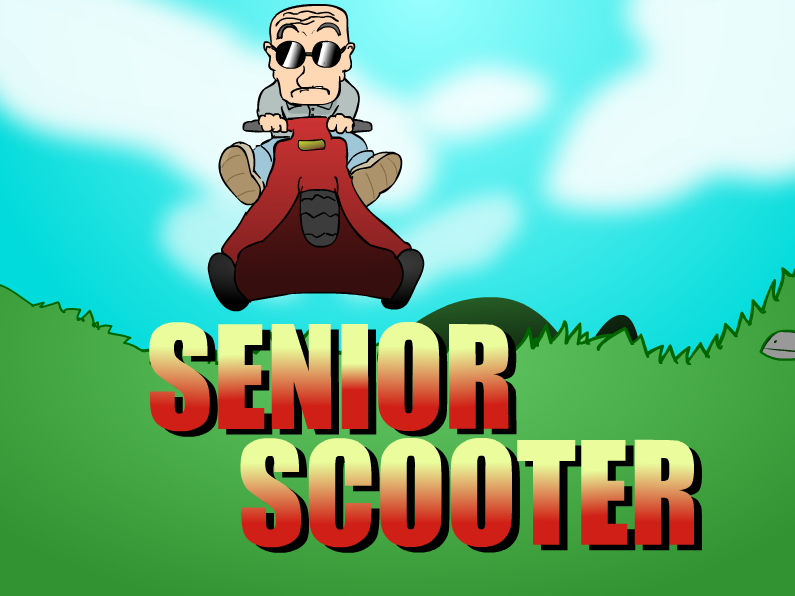
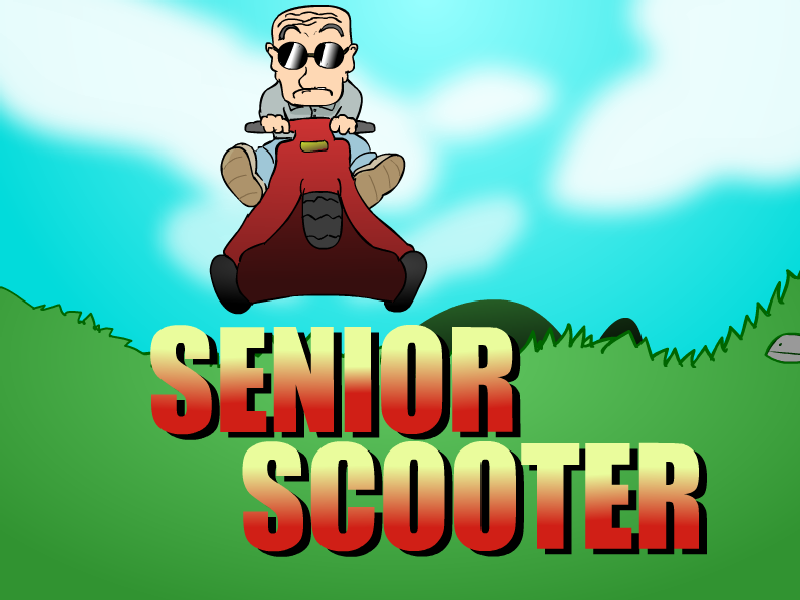
begin relative location code for titlesafe

diff --git a/SSORFwindows/SSORFwindows/Management/States/Mission.cs b/SSORFwindows/SSORFwindows/Management/States/Mission.cs
@@ -51,6 +51,8 @@ namespace SSORF.Management.States
         SSORF.Objects.Level level;
 
         SSORF.Objects.fpsCalculator fps;
+
+        private Rectangle bounds;
         #endregion
 
         //empty constructor for making missions without parameters
@@ -148,6 +150,8 @@ namespace SSORF.Management.States
             #endregion
 
             camera.update(scooter.Geometry.Location, scooter.Yaw);
+
+            bounds = rootGame.GraphicsDevice.Viewport.Bounds;
         }
 
 
@@ -297,8 +301,8 @@ namespace SSORF.Management.States
 
             //display camera and scooter coordinates for testing
 
-            spriteBatch.DrawString(smallFont, "FPS: " + fps.FPS, new Vector2(11, 51), Color.Black);
-            spriteBatch.DrawString(smallFont, "FPS: " + fps.FPS, new Vector2(10, 50), Color.Black);
+            spriteBatch.DrawString(smallFont, "FPS: " + fps.FPS, new Vector2(bounds.Left + 11, bounds.Top + 51), Color.Black);
+            spriteBatch.DrawString(smallFont, "FPS: " + fps.FPS, new Vector2(bounds.Left + 10, bounds.Top + 50), Color.Black);
             //spriteBatch.DrawString(smallFont, "Scooter coordinates: " + scooter.Geometry.Location.ToString(), new Vector2(10, 10), Color.Black);
             //spriteBatch.DrawString(smallFont, "Camera coordinates:  " + camera.Position.ToString(), new Vector2(10, 30), Color.Black);
             
@@ -314,40 +318,40 @@ namespace SSORF.Management.States
             switch (state)
             { 
                 case MissionState.Starting :
-                    spriteBatch.DrawString(smallFont, "Time Left: " + timeLimit.TotalSeconds.ToString(), new Vector2(200, 10), Color.Black);
-                    spriteBatch.DrawString(smallFont, "Get ready to race!!!", new Vector2(300, 550), Color.Black);
-                    spriteBatch.DrawString(largeFont, Math.Abs(scooter.Speed * 2.23f).ToString("0"), new Vector2(50, 400), Color.Red);
+                    spriteBatch.DrawString(smallFont, "Time Left: " + timeLimit.TotalSeconds.ToString(), new Vector2(bounds.Left + 200, bounds.Top + 10), Color.Black);
+                    spriteBatch.DrawString(smallFont, "Get ready to race!!!", new Vector2(bounds.Left + 300, bounds.Top + 550), Color.Black);
+                    spriteBatch.DrawString(largeFont, Math.Abs(scooter.Speed * 2.23f).ToString("0"), new Vector2(bounds.Left + 50, bounds.Top + 400), Color.Red);
                     if (countDown.Seconds > 0)
-                        spriteBatch.DrawString(largeFont, countDown.Seconds.ToString(), new Vector2(340, 100), Color.Black);
+                        spriteBatch.DrawString(largeFont, countDown.Seconds.ToString(), new Vector2(bounds.Left + 340, bounds.Top + 100), Color.Black);
                     else
-                        spriteBatch.DrawString(largeFont, "GO!", new Vector2(220, 100), Color.Black);
+                        spriteBatch.DrawString(largeFont, "GO!", new Vector2(bounds.Left + 220, bounds.Top + 100), Color.Black);
                 break;
 
                 case MissionState.Paused:
-                    spriteBatch.DrawString(smallFont, "Time Left: " + timeLimit.TotalSeconds.ToString(), new Vector2(200, 10), Color.Black);
-                    spriteBatch.DrawString(largeFont, "paused", new Vector2(80, 100), Color.Black);
-                    spriteBatch.DrawString(smallFont, "Press [" + endKey + "] to quit mission", new Vector2(280, 530), Color.Black);
-                    spriteBatch.DrawString(smallFont, "Press [" + returnKey + "] to return to mission", new Vector2(280, 550), Color.Black);
-                    spriteBatch.DrawString(largeFont, Math.Abs(scooter.Speed * 2.23f).ToString("0"), new Vector2(50, 400), Color.Red);
+                    spriteBatch.DrawString(smallFont, "Time Left: " + timeLimit.TotalSeconds.ToString(), new Vector2(bounds.Left + 200, bounds.Top + 10), Color.Black);
+                    spriteBatch.DrawString(largeFont, "paused", new Vector2(bounds.Left + 80, bounds.Top + 100), Color.Black);
+                    spriteBatch.DrawString(smallFont, "Press [" + endKey + "] to quit mission", new Vector2(bounds.Left + 280, bounds.Bottom - 70), Color.Black);
+                    spriteBatch.DrawString(smallFont, "Press [" + returnKey + "] to return to mission", new Vector2(bounds.Left + 280, bounds.Bottom - 50), Color.Black);
+                    spriteBatch.DrawString(largeFont, Math.Abs(scooter.Speed * 2.23f).ToString("0"), new Vector2(bounds.Left + 50, bounds.Bottom - 200), Color.Red);
                 break;
 
                 case MissionState.Playing :
-                    spriteBatch.DrawString(smallFont, "Time Left: " + timeLimit.TotalSeconds.ToString(), new Vector2(200, 10), Color.Black);
-                    spriteBatch.DrawString(smallFont, "Press [" + returnKey + "] to pause mission", new Vector2(280, 550), Color.Black);
-                    spriteBatch.DrawString(largeFont, Math.Abs(scooter.Speed * 2.23f).ToString("0"), new Vector2(50, 400), Color.Red);
+                    spriteBatch.DrawString(smallFont, "Time Left: " + timeLimit.TotalSeconds.ToString(), new Vector2(bounds.Left + 200, bounds.Top + 10), Color.Black);
+                    spriteBatch.DrawString(smallFont, "Press [" + returnKey + "] to pause mission", new Vector2(bounds.Left + 280, bounds.Bottom - 50), Color.Black);
+                    spriteBatch.DrawString(largeFont, Math.Abs(scooter.Speed * 2.23f).ToString("0"), new Vector2(bounds.Left + 50, bounds.Bottom - 200), Color.Red);
                 break;
 
                 case MissionState.Ending :
                 if (missionComplete)
                 {
-                    spriteBatch.DrawString(largeFont, "Finish!", new Vector2(60, 100), Color.Black);
-                    spriteBatch.DrawString(smallFont, "You earned $" + prizeMoney.ToString(), new Vector2(200, 470), Color.Black);
-                    spriteBatch.DrawString(smallFont, "With " + timeLimit.TotalSeconds.ToString() + " seconds to spare!!!", new Vector2(200, 490), Color.Black);
+                    spriteBatch.DrawString(largeFont, "Finish!", new Vector2(bounds.Left + 60, 100), Color.Black);
+                    spriteBatch.DrawString(smallFont, "You earned $" + prizeMoney.ToString(), new Vector2(bounds.Left + 200, bounds.Bottom - 130), Color.Black);
+                    spriteBatch.DrawString(smallFont, "With " + timeLimit.TotalSeconds.ToString() + " seconds to spare!!!", new Vector2(bounds.Left + 200, bounds.Bottom - 110), Color.Black);
                 }
                 else
-                    spriteBatch.DrawString(largeFont, "Fail!", new Vector2(200, 100), Color.Black);
+                    spriteBatch.DrawString(largeFont, "Fail!", new Vector2(bounds.Left + 200, 100), Color.Black);
 
-                    spriteBatch.DrawString(smallFont, "Press [" + returnKey + "] to return to menu", new Vector2(240, 550), Color.Black);
+                    spriteBatch.DrawString(smallFont, "Press [" + returnKey + "] to return to menu", new Vector2(bounds.Left + 240, bounds.Bottom - 50), Color.Black);
                 break;
             
             }

diff --git a/SSORFwindows/SSORFwindows/Management/StateManager.cs b/SSORFwindows/SSORFwindows/Management/StateManager.cs
@@ -70,6 +70,8 @@ namespace SSORF.Management
 
             //AudioManager initialization
             AudioManager.LoadAudioContent();
+
+            GraphicsDevice.Viewport = new Viewport(GraphicsDevice.Viewport.TitleSafeArea);
         }
 
         //Do we need to use this? I'm not sure
@@ -148,7 +150,6 @@ namespace SSORF.Management
         //draw title, menu, or mission depending on GameState
         public override void Draw(GameTime gameTime)
         {
-
             switch (State)
             {
                 case GameState.TitleScreen:
